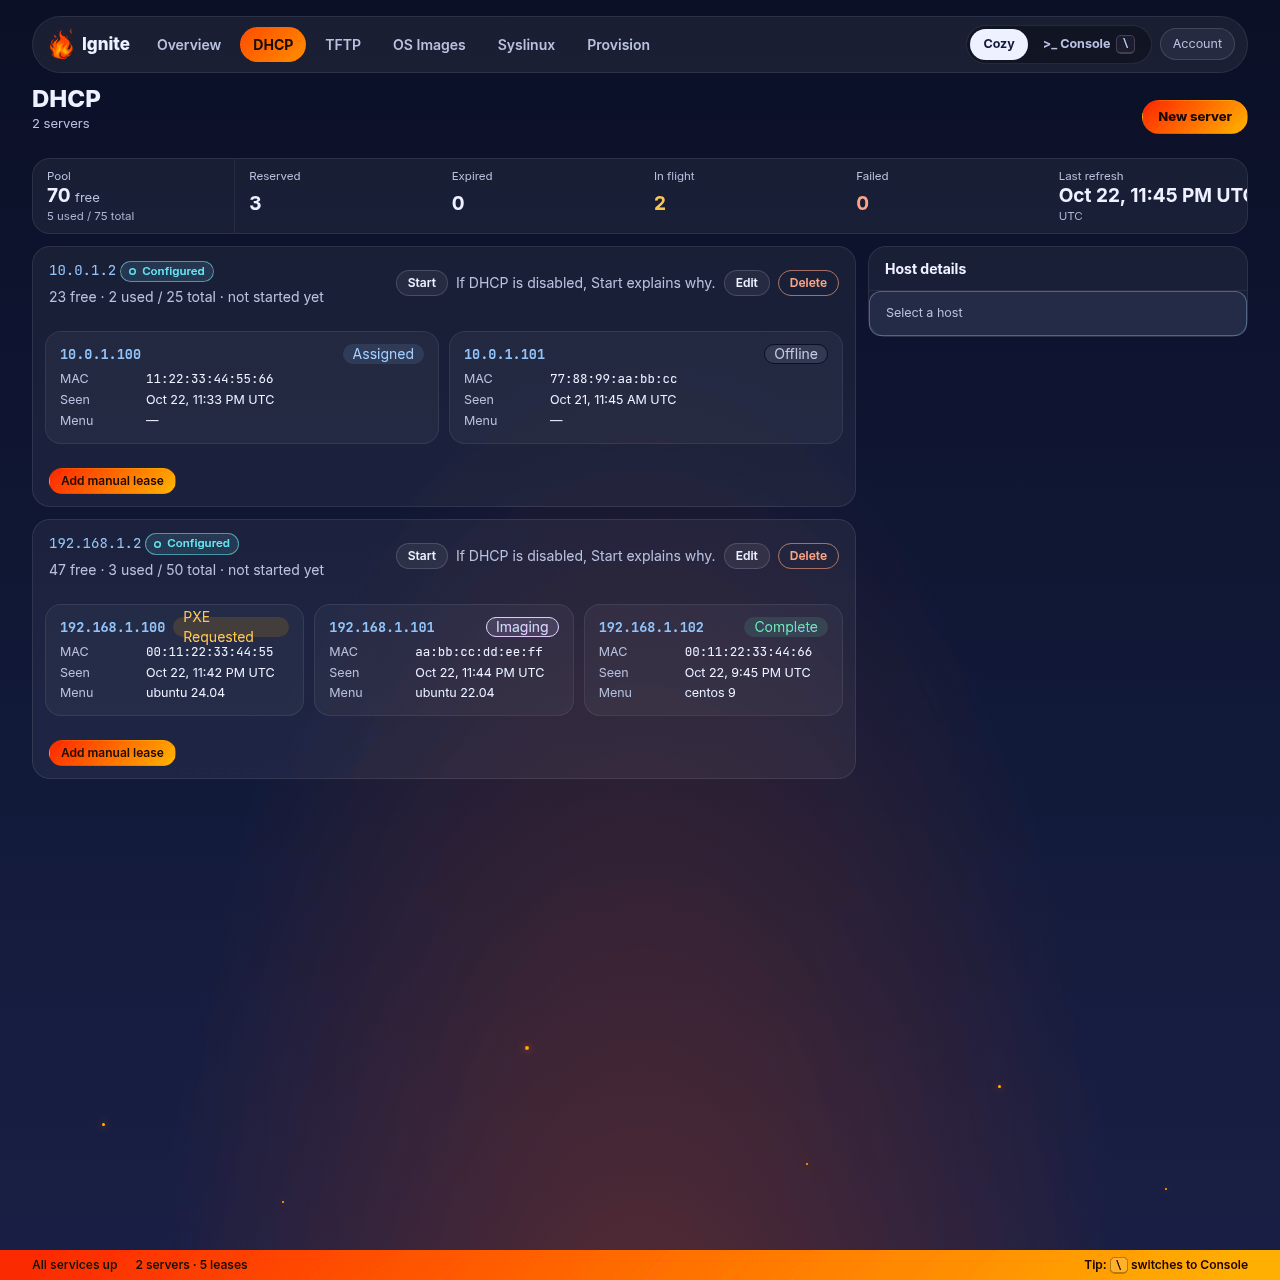
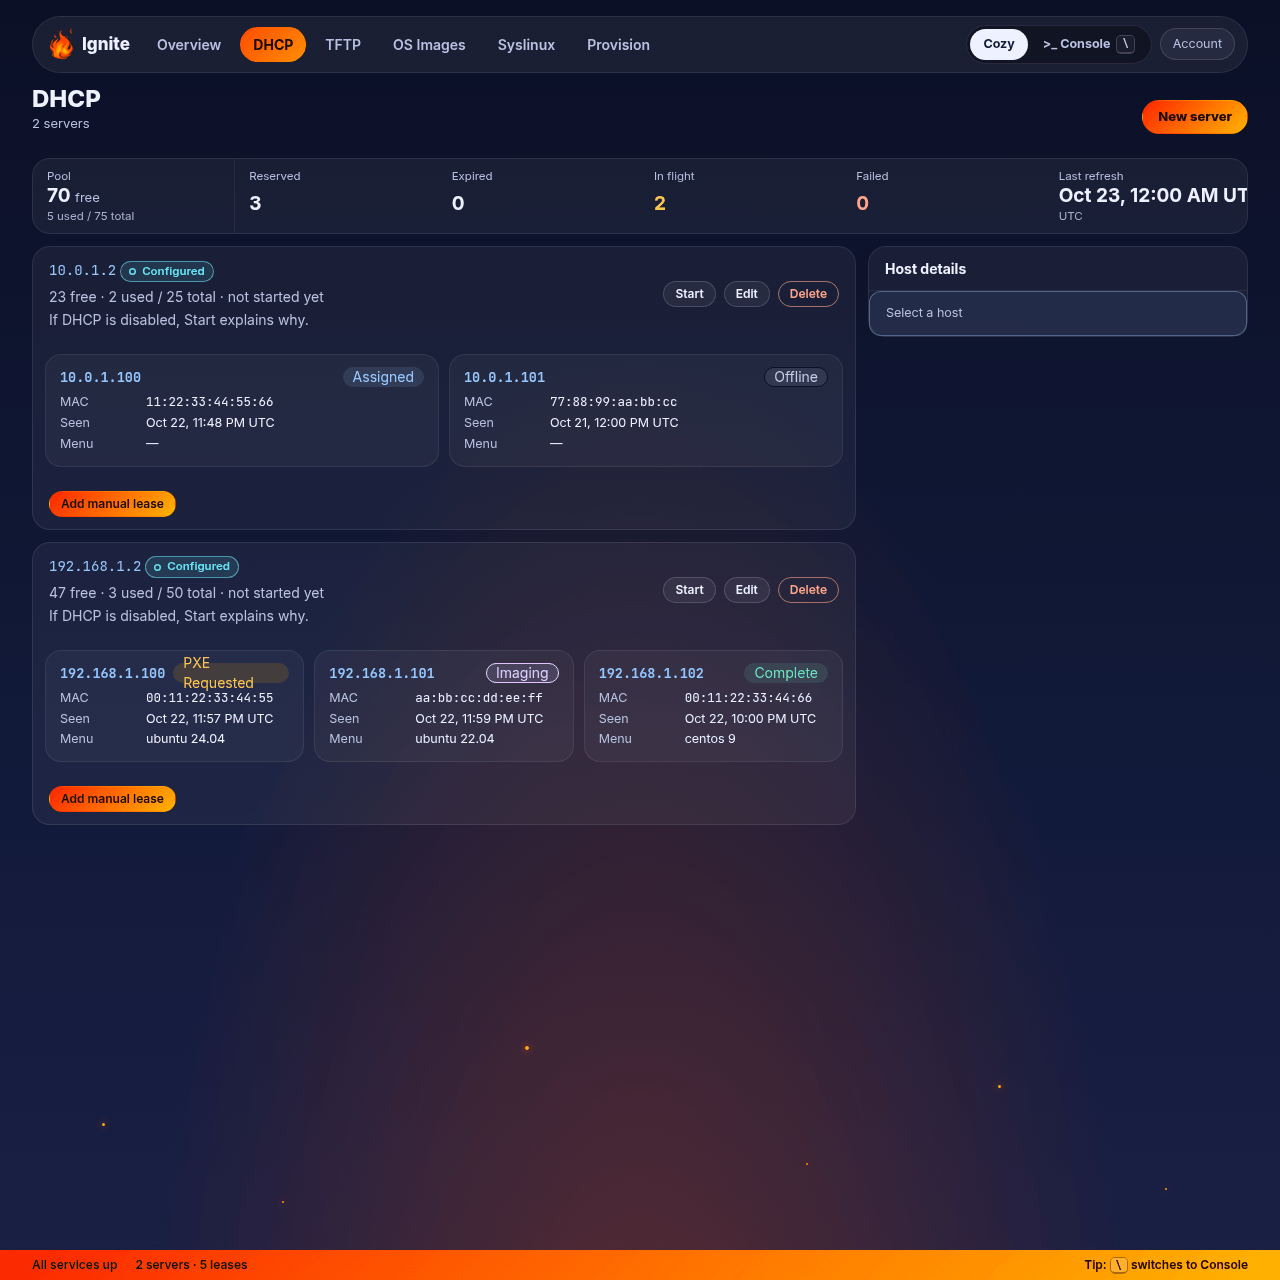
Give Overview DHCP cards the same two-column width as Services.
Keep the badge and Start in a fixed slot, and put the disabled hint on its own muted line under the pool meta.

diff --git a/public/http/css/includes.css b/public/http/css/includes.css
@@ -403,7 +403,17 @@ html[data-theme="console"] .sec { text-transform: lowercase; letter-spacing: 0; 
 .tiles2 { grid-template-columns: repeat(2, minmax(0, 1fr)); }
 .tiles3 { grid-template-columns: repeat(3, minmax(0, 1fr)); }
 .tiles2 .sv, .tiles3 .sv { min-width: 0; flex: none; width: auto; }
-.sv .sub { display: block; font-size: 12px; color: var(--text-muted); margin-top: 2px; }
+.sv-copy { min-width: 0; flex: 1 1 auto; }
+.sv-acts {
+  margin-left: auto;
+  flex: none;
+  display: flex;
+  align-items: center;
+  gap: 6px;
+  white-space: nowrap;
+}
+.sv .sub { display: block; font-size: 12px; color: var(--text-muted); margin-top: 2px; line-height: 1.35; }
+.dhcp-hint { display: block; margin-top: 2px; }
 .refresh-note { font-size: 12.5px; margin: 0; }
 @media (max-width: 900px) {
   .overview-board { grid-template-columns: 1fr; }
